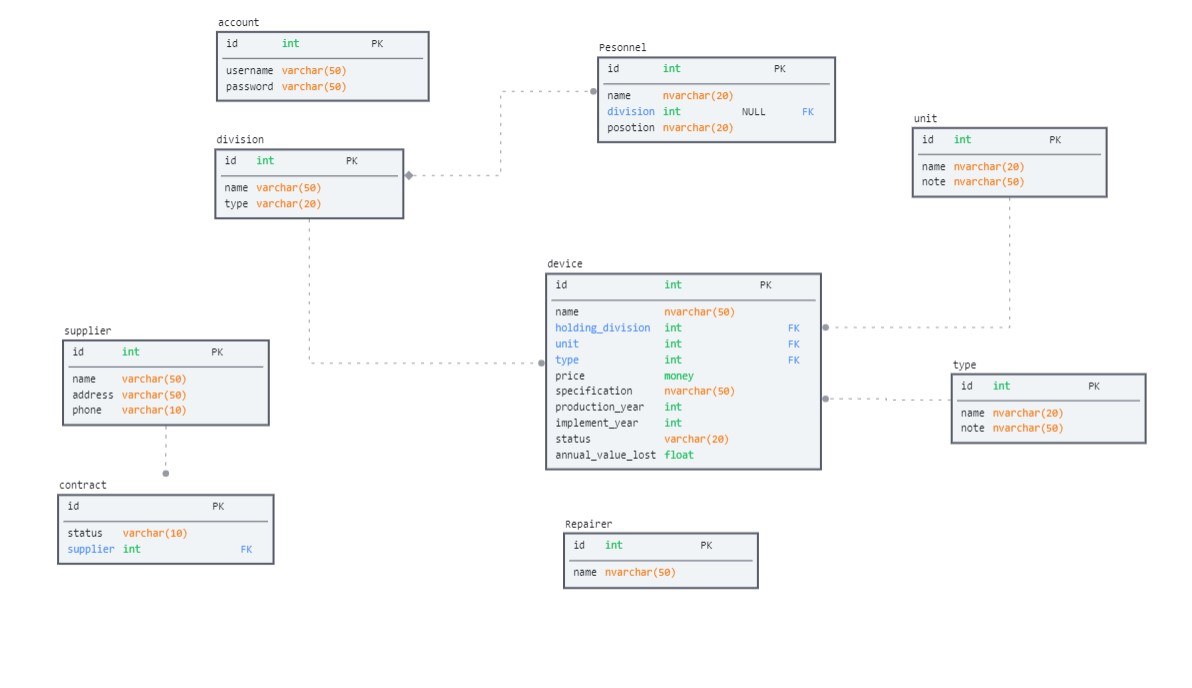
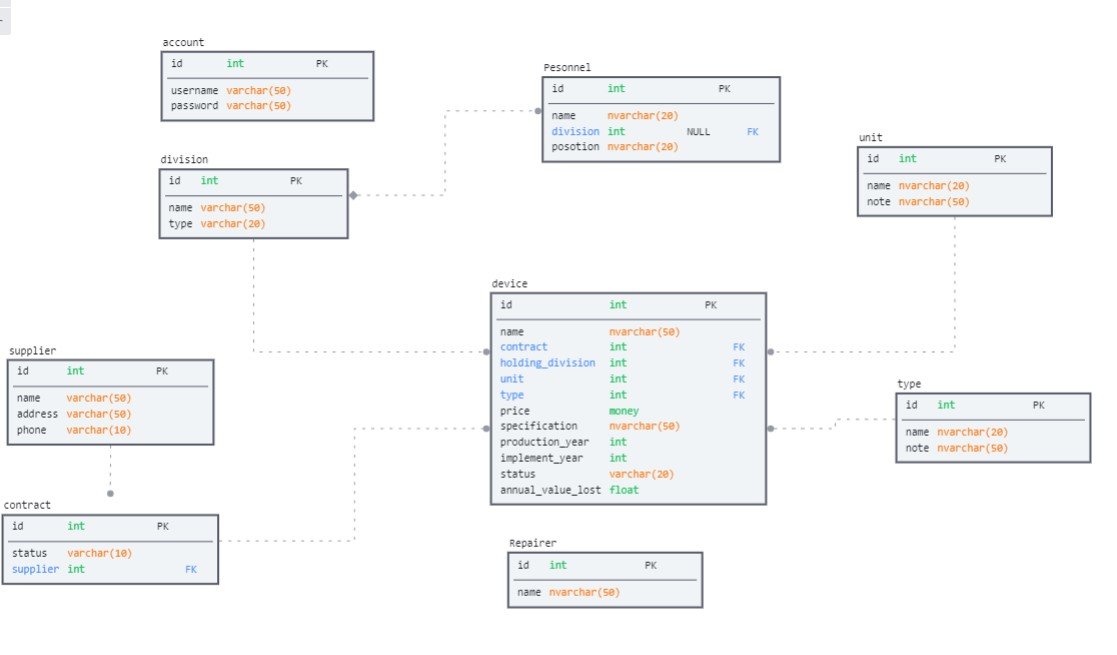
add sql value
change erd
add devices class
add authentication sql file

diff --git a/src/console/assets-management-system/classes/Device.cs b/src/console/assets-management-system/classes/Device.cs
@@ -1,0 +1,45 @@
+namespace assets_management_system {
+    public static class DeviceConst
+    {
+        public static string TABLE_NAME = "";
+        public static string COLUMN_ID = "";
+        public static string COLUMN_NAME = "";
+        public static string COLUMN_CONTRACT = "";
+        public static string COLUMN_DIVISION = "";
+
+        public static string COLUMN_UNIT = "";
+        public static string COLUMN_TYPE = "";
+        public static string COLUMN_STATUS = "";
+        public static string COLUMN_SPECS = "";
+        public static string COLUMN_PRODUCTION_YEAR = "";
+        public static string COLUMN_IMPLEMENT_YEAR = "";
+        public static string COLUMN_ANUAL_VALUE_LOST = "";
+
+    }
+    class Device {
+        int id;
+        string Name;
+        int Contract;
+        int Division;
+
+        int Unit;
+        int Type;
+        string Status;
+        string Specification;
+        
+        int ProductionYear;
+
+        int ImplementYear;
+
+        float AnualValueLost;
+
+
+        public Device(int id)
+        {
+            
+        }
+
+    }
+
+
+}
